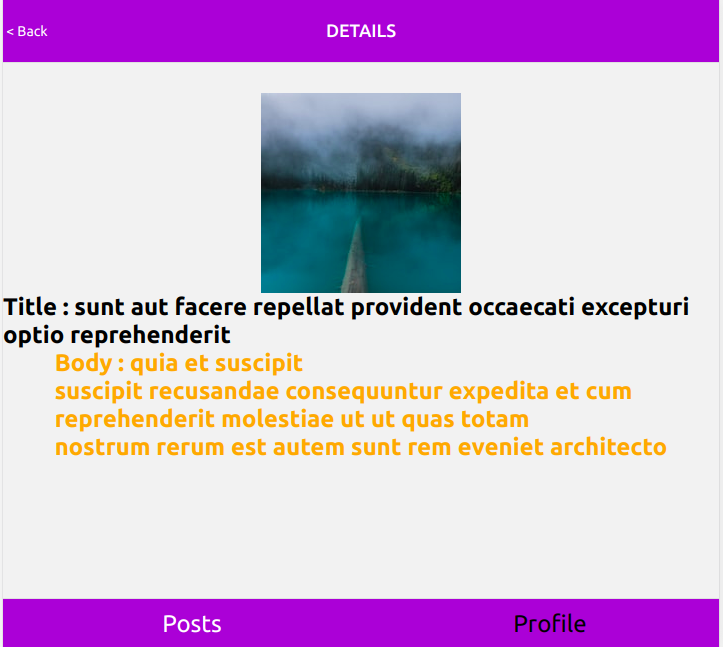
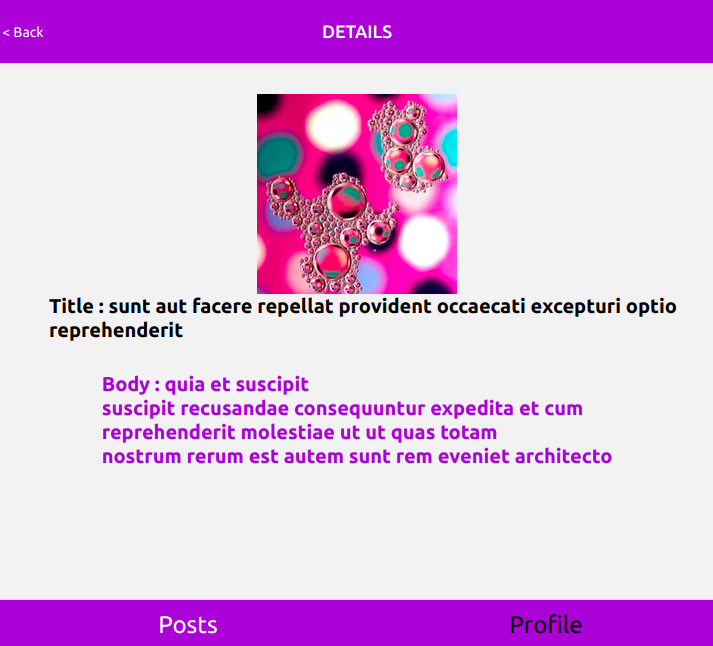
Add Some Features at Post Details

diff --git a/screens/PostDetails.js b/screens/PostDetails.js
@@ -19,10 +19,10 @@ const PostDetails = () =>{
                 'https://source.unsplash.com/random/200x200'
             }}
             />
-            <Text style={{fontSize:24, fontWeight:"bold"}}>
+            <Text style={{marginLeft:50,fontSize:20, fontWeight:"bold",}}>
                 Title : {route.params.post.title}
             </Text>
-            <Text style={{fontSize:24, fontWeight:"bold",color:"orange"}}>
+            <Text style={{marginTop:30,fontSize:20, fontWeight:"bold",color:"#9400D3"}}>
                 Body : {route.params.post.body}
             </Text>
         </View>
